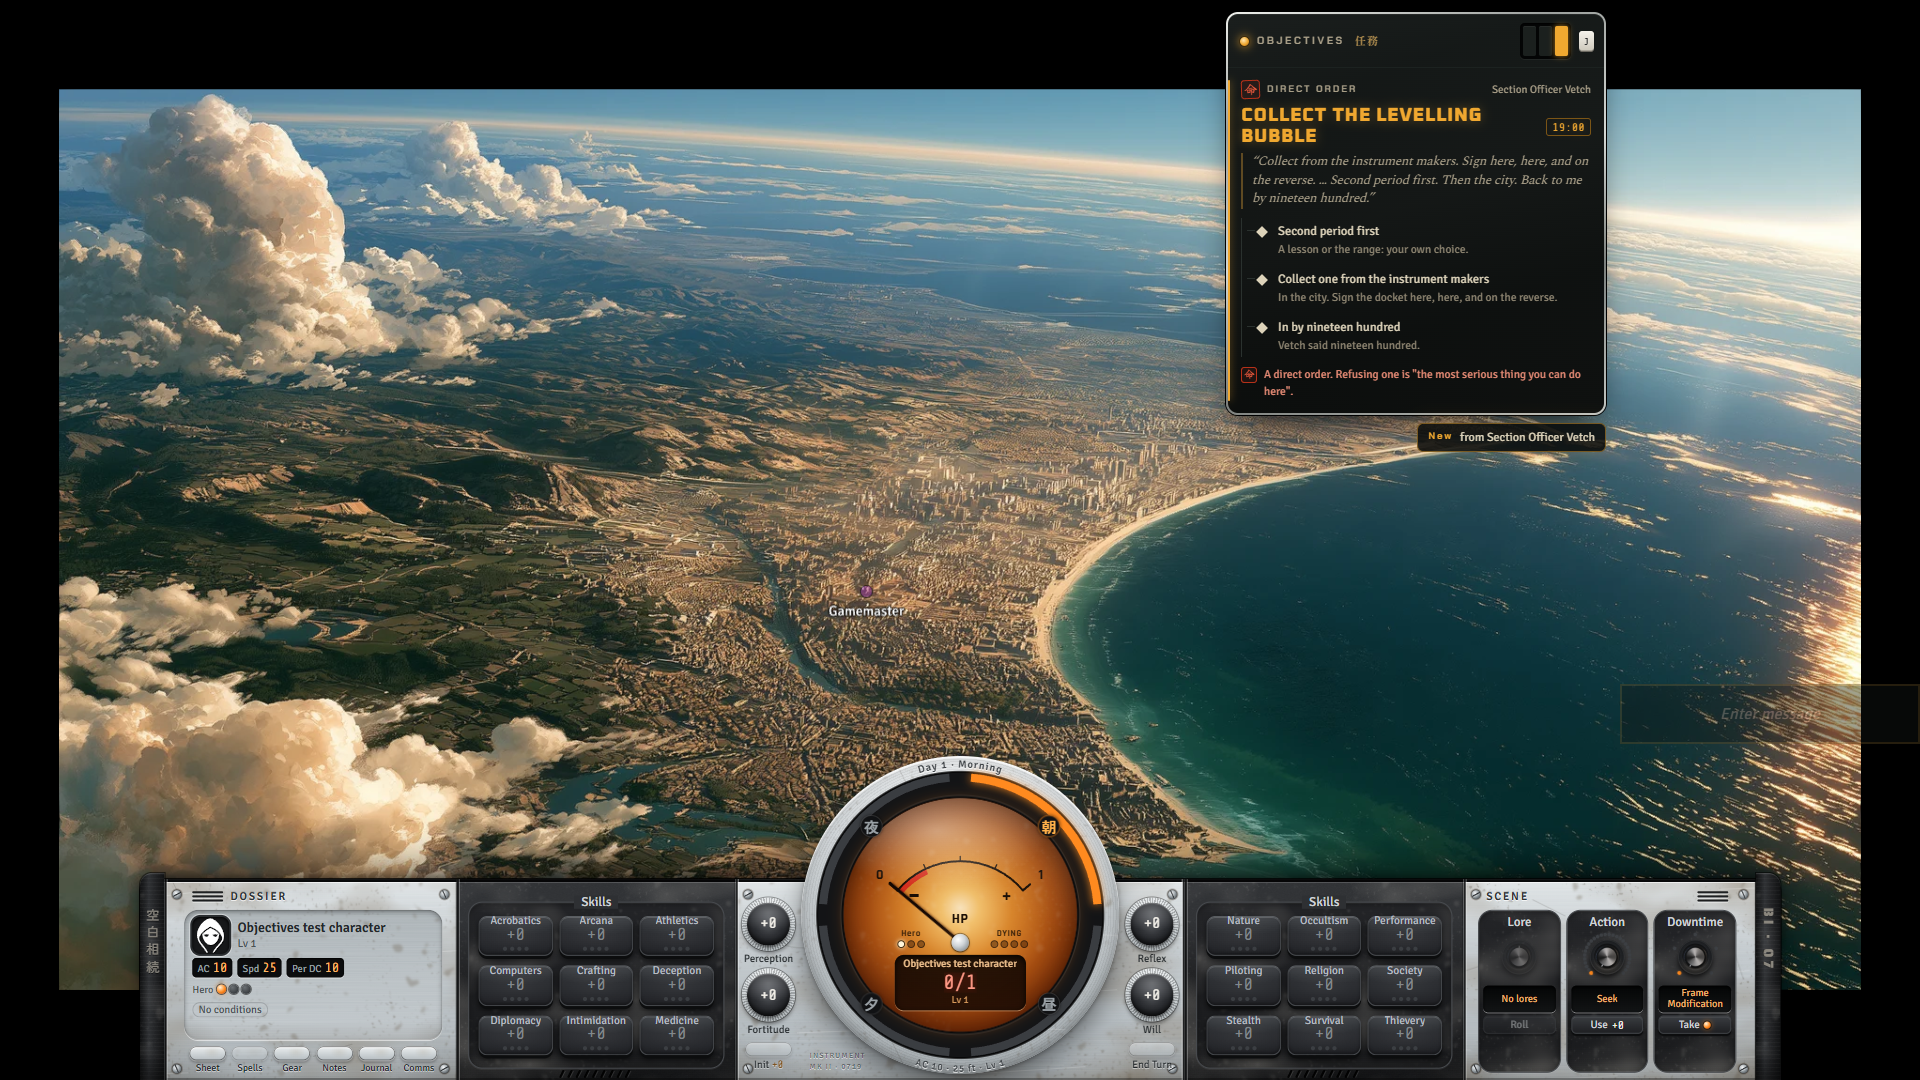
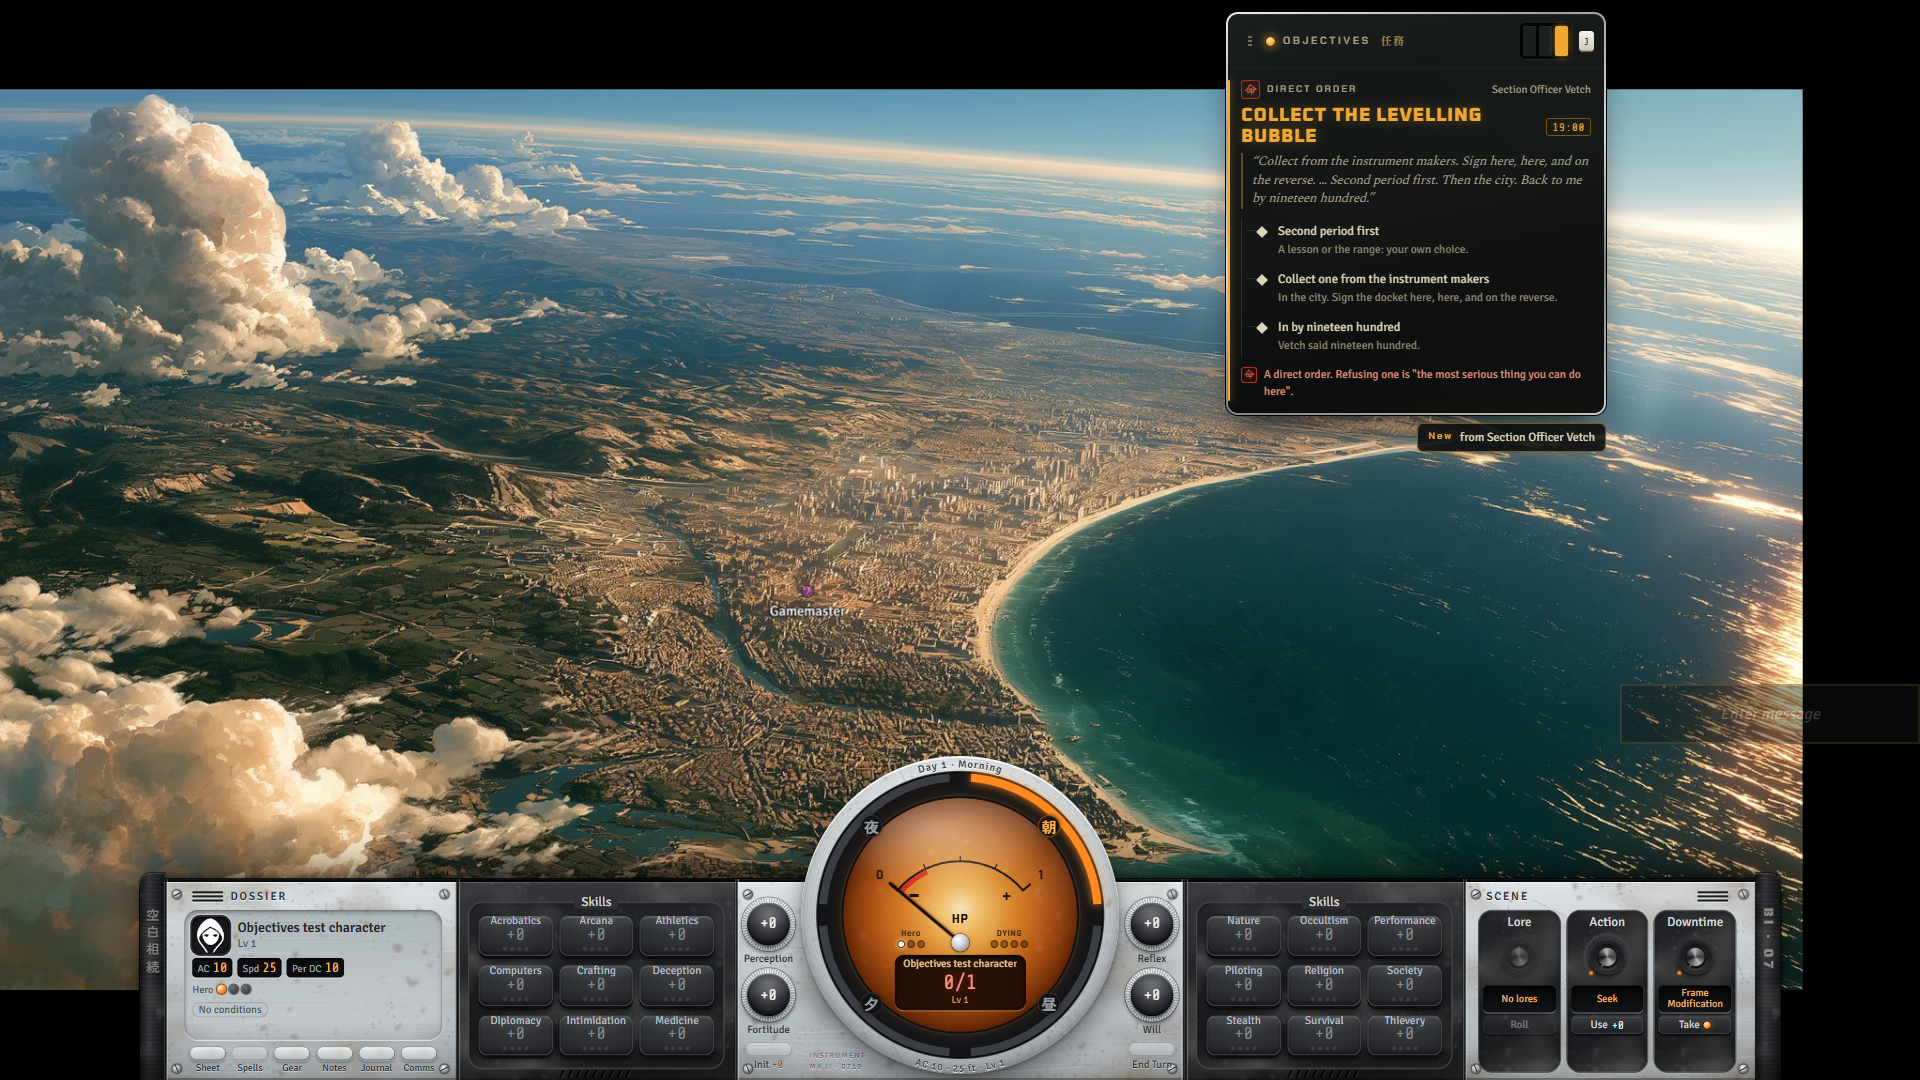
Objectives: a grip to move the tracker, kept per player; it steps aside for chalk
- A six-dot grip on the tab and in the header drags the tracker anywhere (real
  pointer events, captured); arrow keys nudge it, double-click or Home resets it.
  The spot is each player's own client setting, clamped to stay on screen, and wins
  over the automatic placement rules.
- The folded tab's wrapper no longer takes presses in the gap between its buttons.
- While chalk is in hand the whole tracker is click-through and fades back, so a
  stroke or an eraser under it reaches the stage (found by the chalk session: an
  eraser pressed on the grip and dragged the tracker).

Tests: clamp/parse/drag rules, the wiring, regression tests for both leaks, and the
live check (28/28, including a real mouse drag).

diff --git a/module/blank-inheritance/styles/bi-objectives.css b/module/blank-inheritance/styles/bi-objectives.css
@@ -343,3 +343,17 @@
 .bi-objboard__flag[data-kind="players"] { color: #a9bde3; border-style: dashed; border-color: #6d84ad; }
 .bi-objboard__empty { margin: 0; font-size: 12.5px; color: #8f8672; }
 @media (max-width: 900px) { .bi-objboard__cols { grid-template-columns: minmax(0, 1fr); } }
+
+/* The grip: drag the tracker anywhere (each player's own place is kept). */
+/* The folded row only holds its two buttons: the gap between them lets a press through (found by probing every point). */
+#bi-objectives .bi-obj > .bi-obj__tabrow { display: flex; align-items: center; gap: 4px; pointer-events: none; }
+#bi-objectives .bi-obj__tabrow button { pointer-events: auto; }
+#bi-objectives .bi-obj__grip { display: inline-grid !important; place-items: center; width: 22px !important; align-self: stretch; flex: none; padding: 0 !important; color: #a99f88; font-family: var(--bi-font-readout); font-size: 18px; line-height: 1; letter-spacing: -2px; cursor: grab; touch-action: none; user-select: none; border-radius: 4px; }
+#bi-objectives .bi-obj__grip:hover, #bi-objectives .bi-obj__grip:focus-visible { color: var(--bi-amber); }
+#bi-objectives .bi-obj__grip.is-dragging { cursor: grabbing; color: var(--bi-amber); }
+#bi-objectives .bi-obj__tabrow .bi-obj__grip { height: 30px; background: rgb(10 12 11 / 88%); border: 1px solid #39413d; }
+
+/* While chalk is in hand the tracker steps aside, like the GM strips: nothing of it takes a press and it fades back, so a
+   stroke or an eraser under it reaches the stage (found 2026-10-04: an eraser pressed on the grip and dragged the tracker). */
+body:has(#stagecraft-stage.stagecraft-chalk) #bi-objectives .bi-obj { opacity: 0.3; transition: opacity 0.15s; }
+body:has(#stagecraft-stage.stagecraft-chalk) #bi-objectives .bi-obj * { pointer-events: none !important; }
